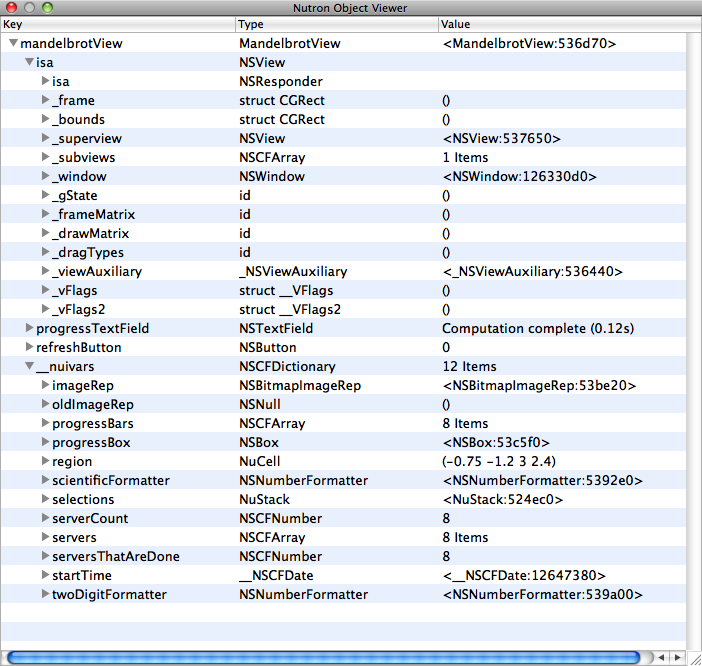
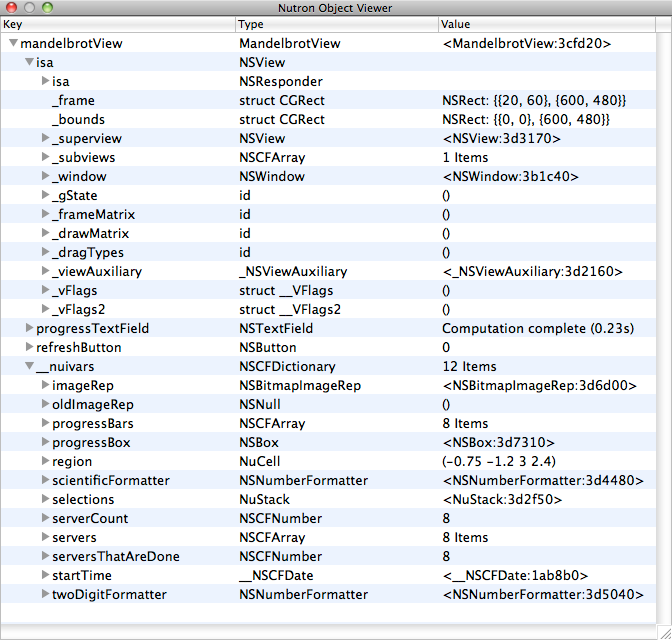
Cleaned up documentation

Changed region(s): [[0.0, 0.0, 1.0, 0.9375], [0.625, 0.125, 0.9688, 0.9375], [0.0, 0.9688, 1.0, 1.0]]

diff --git a/_layouts/default.html b/_layouts/default.html
@@ -33,8 +33,10 @@
       <div class="site">
         <div class="info">
           <div class="links">
-            <a href="http://github.com/itfrombit/nutron"><b>Nutron Repository</b></a> |
-            <a href="http://programming.nu">Nu</a> |
+            <a href="http://github.com/itfrombit/nutron">Nutron Repository</a> |
+            <a href="http://github.com/timburks/nu">Nu Repository</a> |
+            <a href="http://programming.nu">Nu Website</a> |
+            <a href="http://github.com/itfrombit">Jeff on GitHub</a> |
             <a href="http://twitter.com/itfrombit">Jeff on Twitter</a>
           </div>
           <div class="company">

diff --git a/index.md b/index.md
@@ -8,49 +8,21 @@ What is Nutron?
 
 Nutron is a framework of user interface components that help you inspect, browse and debug your Objective-C and Nu runtime environments.  Nutron uses Nu as its scripting language.
 
+![Nutron](./img/nutron.png "Nutron")
+
 Nutron also comes with an application named *Nutronic*. Nutronic bundles an integrated set of Nutron components together into a standalone application that can be used as an enhanced Nu shell.
-
-
-Installation
-============
-
-The Nutron repository is at [http://github.com/itfrombit/nutron](http://github.com/itfrombit/nutron).
-
-Nutron depends on [Nu](http://programming.nu).  The Nu repository is at [http://github.com/timburks/nu](http://github.com/timburks/nu).  You need a version of Nu that is from 2010-10-02 or later.
-
-The quickest way to build and install the Nutron framework is to use nuke:
-
-	nuke
-	nuke install
-	
-The Nukefile builds a universal binary that supports both `i386` and `x86_64` architectures.
-
-Nutron also comes with an Xcode project.  Developing and debugging the Nutron framework is best done in Xcode.
-
-There is a separate Xcode project in the Nutronic directory that builds the Nutronic application.
 
 
 Components
 ==========
+
 Nutron consists of four core components:
-1. An enhanced console
-2. An object inspector
+1. An object inspector
+2. An enhanced Nu console
 3. A class viewer
-4. A view selector.
+4. A view selector
 
-Each component can be invoked as a standalone window, or can be embedded as part of another application or framework.  All components can be instantiated by a class method of the `Nutron` class.
-
-
-Nutron Console
---------------
-
-The Nutron Console is similar to the console that ships with Nu, but the Nutron version is designed for participating with other components of an application.  Specifically, the Nutron Console can be sent input from a external source and can also call back to an optional delegate after each command is evaluated.
-
-![The Nutron Console](./img/nutron_console.png "The Nutron Console")
-
-The Nutron Console can be invoked as a standalone window from an existing Nu or Nutron console:
-
-	(Nutron console)
+Each component can be invoked as a standalone window, or can be embedded as part of another application or framework.  
 
 
 Nutron Object Inspector
@@ -58,15 +30,13 @@ Nutron Object Inspector
 
 The Nutron Object Inspector shows the internals of Objective-C objects.  Any valid Objective-C object or Nu expression that returns a value can be passed to the object inspector:
 
-	(set viewInspector (inspect mandelbrotView))
+	(set viewInspector (nutron-inspect mandelbrotView))
 
 ![Nutron object inspector](./img/nutron_object_inspector.png "Inspecting the MandelbrotView of the Benwanu sample application")
 
-The inspector shows a view similar to something you might see in the Xcode debugger.  All instance variable values of an object are shown.  If an instance variable is itself an Objective-C object, you can continue to drill down into the hierarchy.
+The inspector shows a view similar to what you might see in a debugger.  All instance variable values of an object are shown.  A special `isa` variable is also shown for any expanded Objective-C objects.  Expanding this variable will show the instance variables that belong to the object's superclass.  You can continue to expand this hierarchy until you reach the top-level base class (usually `NSObject`).
 
-A special `isa` variable is also shown for any expanded Objective-C objects.  Expanding this variable will show the instance variables that belong to the object's superclass.  You can continue to expand this hierarchy until you reach the top-level base class (usually `NSObject`).
-
-Note: instance variables that are C structs or unions are shown in the Type column, but they are not yet expandable and the Value column does not currently show correct values.
+Note: instance variables that are C structs or unions are shown in the Type column, but they are not yet expandable and the Value column does not currently show correct values.  However, Nutron does support `CGRect`, `CGPoint`, and `CGSize` structures.
 
 If you launched the object inspector from a Nutron console (like in the above code snippet), you can refresh the values of the object tree to view any changes in state:
 
@@ -87,6 +57,18 @@ For example, inspecting an NSDictionary shows an alphabetized list of keys, type
 ![Inspecting an NSDictionary](./img/nutron_object_inspector_dictionary.png "Inspecting an NSDictionary")
 
 `(context)` is a dictionary of all defined objects in the current Nu parser's evaluation context.  You can see the top-level description for the dictionary shows the number of key/value pairs in the dictionary instead of the pointer value of the dictionary object.  Each child of the dictionary root item is one of the key/value pairs.
+
+
+Nutron Console
+--------------
+
+The Nutron Console is similar to the console that ships with Nu, but the Nutron version is designed for participating with other components of an application.  Specifically, the Nutron Console can be sent input from a external source and can also call back to an optional delegate after each command is evaluated.
+
+![The Nutron Console](./img/nutron_console.png "The Nutron Console")
+
+The Nutron Console can be invoked as a standalone window from an existing Nu or Nutron console:
+
+	(set nc (Nutron console))
 
 
 Nutron Class Viewer
@@ -112,6 +94,8 @@ The main advantage of using the outline view mode to view a class definition is 
 Nutron View Selector
 --------------------
 
+*Note: The View Selector code is adapted from [F-Script](http://www.fscript.org).  See the acknowledgments section below.*
+
 Sometimes you want to inspect a visual object that is not easily available through a variable at the console. You can sometimes walk a clever object hierarchy to get to a particular view:
 
 	(set mv (((((NSApplication sharedApplication) mainWindow) contentView) subviews) 0))
@@ -120,33 +104,34 @@ But it is usually much easier to just use the mouse to select the view that you 
 
 ![Nutron selectView in action](./img/nutron_select_view_browsing.png "Nutron selectView in action")
 
-When the view you are interested in is highlighted, click the mouse button and that NSView-based object will be the return value of `selectView`, which you can assign to a variable.
+When the view you are interested in is highlighted, click the mouse button and the highlighted view will be the return value of `selectView`, which you can assign to a variable.
 
 	(set mv (Nutron selectView))
 	
 Alternatively, you can also directly inspect the return value of `selectView`:
 
-	(inspect (Nutron selectView))
+	(set mv (inspect (Nutron selectView)))
 	
 This will launch Nutron's Object Inspector with the view that you selected:
 
 ![Directly inspecting a selected view](./img/nutron_inspect_select_view.png "Directly inspecting a selected view")
 
+If you call the `selectView` method and want to cancel view selection, hit the Escape key.  The `selectView` method will return nil.
 
 Nutron
 ------
 
 In addition to being the name of the framework, Nutron is also the name of the main component that wires together a console, object inspector and class viewer to provide an integrated debugging and browsing tool.
 
-	(Nutron nutron)
+	(set n (Nutron nutron))
 
 ![Nutron](./img/nutron.png "Nutron running in the Benwanu example Nu application")
 
 The object viewer shows the current Nu parser context, which consists of all locally defined objects (plus two objects internal to the workings of Nu: `_parser` and `symbols`). The object viewer is refreshed each time the Nutron console evaluates a command.
 
-By default, a new parser context is created for the Nutron Console. For an applications written in Nu (like the Benwanu we've been looking at), you might prefer to see the context of the parser that evaluated the code of the application. You can pass in an existing parser object to Nutron using the `nutronWithParser:` method and it will operate in that parser's context:
+By default, a new parser context is created for the Nutron Console. For applications written in Nu (like the Benwanu sample application we've been looking at), you might prefer to see the context of the parser that evaluated the code of the application. You can pass in an existing parser object to Nutron using the `nutronWithParser:` method and it will operate in that parser's context:
 
-	(Nutron nutronWithParser:_parser)
+	(set np (Nutron nutronWithParser:_parser))
 
 ![Nutron with existing parser](./img/nutron_with_parser.png "Nutron invoked in the Benwanu parser context")
 
@@ -158,7 +143,7 @@ If you select an Objective-C object in the object viewer, the corresponding clas
 Nutronic
 ========
 
-The Nutronic application that is part of the Nutron distribution provides a standalone executable that can be used for general Nu programming.  Nutronic doesn't yet support opening files from the File menu, but you can load a file via the Nutron Console as you would in `nush`.
+The Nutronic application provides a standalone executable that wraps the above Nutron component and can be used for general Nu programming.  Nutronic doesn't yet support opening files from the File menu, but you can load a file via the Nutron Console as you would in `nush`.
 
 	(load "~/dev/nu/callcc/callcc.nu")
 	
@@ -166,23 +151,25 @@ When you load a file, all symbols defined in that file will show up in the objec
 
 ![Nutronic](./img/nutronic.png "Nutronic")
 
-The Xcode project for Nutronic is in the `Nutronic` subdirectory of the root Nutron folder.
 
 
-Embedding Nutron in Objective-C
-===============================
+Installation
+============
 
-If you want to embed Nutron in your Objective-C application:
+The Nutron repository is at [http://github.com/itfrombit/nutron](http://github.com/itfrombit/nutron).
 
-1. Link with the Nu and Nutron frameworks.
+Nutron depends on [Nu](http://programming.nu).  The Nu repository is at [http://github.com/timburks/nu](http://github.com/timburks/nu).  You need a version of Nu that is from 2010-10-02 or later.
 
-![Linking with Nutron](./img/nutron_xcode_linked_frameworks.png "Linking with Nutron")
-2. Add an instance variable of type `NutronWindowController*` to your AppDelegate class (or something similar).
-3. In your AppDelegate's `applicationDidFinishLaunching:` method, add 
+The quickest way to build and install the Nutron framework is to use nuke:
 
-	`nutron = [[Nutron nutron] retain]; // nutron is the name of your instance variable`
+	nuke
+	nuke install
 	
-4. In your AppDelegate's `dealloc` method, `release` the `NutronWindowController*` instance variable.
+The Nukefile builds a universal binary that supports both `i386` and `x86_64` architectures.
+
+Nutron also comes with an Xcode project for developing and debugging the Nutron framework.
+
+An Xcode project for building Nutronic is in the `Nutronic` subdirectory of the root Nutron folder.  The Nukefile does not build Nutronic.
 
 
 Command Summary
@@ -222,14 +209,52 @@ While the above functions can be called from a Nu or Nutron console, a set of Nu
 	(nutron-view-class "NSString")
 	(nutron-outline-class "NSString")
 	(nutron-select-view)
-	(nutron)                            ;; the integrated browser
+	(nutron)                            ;; the integrated console/browser/class viewer
 	(nutron-with-parser _parser)        ;; using an existing parser
+
+Note that each method above returns an instance of a Nutron object.  If you are calling one of the functions from Objective-C, you should retain the object.  If you are calling one of the functions from Nu, you should set the return value to a variable.
+
+The most recent `NutronWindowController` instance is kept in the special `$$nutron` Nu global variable.  If you have changed the state of your application outside of Nutron, you can use the `refresh` method to update the values in the object inspector:
+
+	($$nutron refresh)
+	
+The object inspector (the `NutronObjectViewWindowController` class) also supports a `refresh` method.
+
+
+Embedding Nutron in Objective-C
+===============================
+
+If you want to embed Nutron in your Objective-C application:
+
+1. Link with the Nu and Nutron frameworks.
+
+![Linking with Nutron](./img/nutron_xcode_linked_frameworks.png "Linking with Nutron")
+2. Add an instance variable of type `NutronWindowController*` to your AppDelegate class (or something similar).
+3. In your AppDelegate's `applicationDidFinishLaunching:` method, add 
+
+	`nutron = [[Nutron nutron] retain]; // nutron is the name of your instance variable`
+	
+4. In your AppDelegate's `dealloc` method, `release` the `NutronWindowController*` instance variable.
+
+
+Using Nutron from Nu
+====================
+
+To use any of the Nutron components from a Nu console, load the Nutron framework:
+
+	(load "Nutron")
+	
+You can then either call the `Nutron` class methods, or use the Nu convenience functions described above.
+
+Note that Nutron does not work from the `nush` command line.  Nutronic provides a standalone environment for using the Nutron components.
 
 
 Bugs and Limitations
 ====================
 
 <p><span style='color: #a00;'>Nutron can crash the hosting application if it tries to display details of a deallocated object!</span>  You are playing with a live runtime, so be careful.  Some better signal handling is in the works to handle this condition, but caveat programmer.</p>
+
+Nutron does not currently remember the state of expansion of the object inspector outline view when refreshed.  This is at the top of the planned features list.
 
 Nutron currently does not parse or interpret C structs, but some well-known structs (such as `CGRect`, `CGPoint`, `CGSize`) are supported.
 
